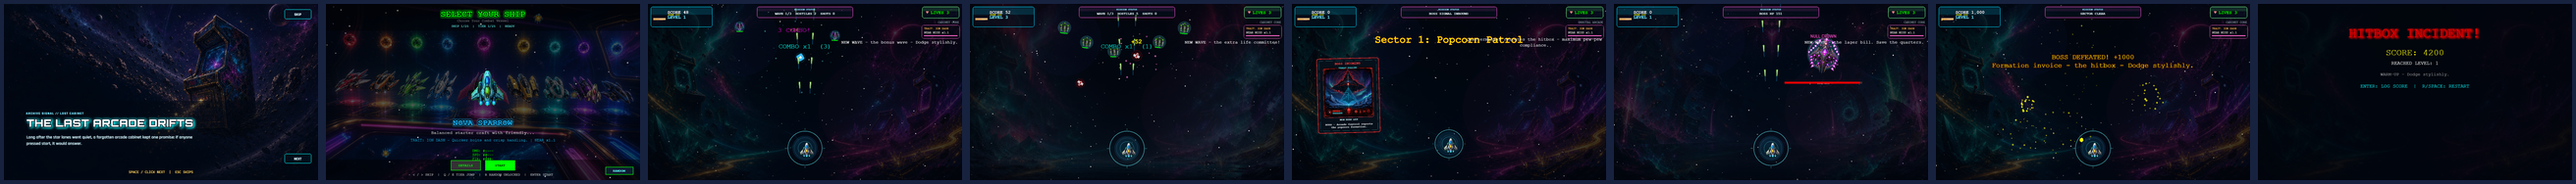
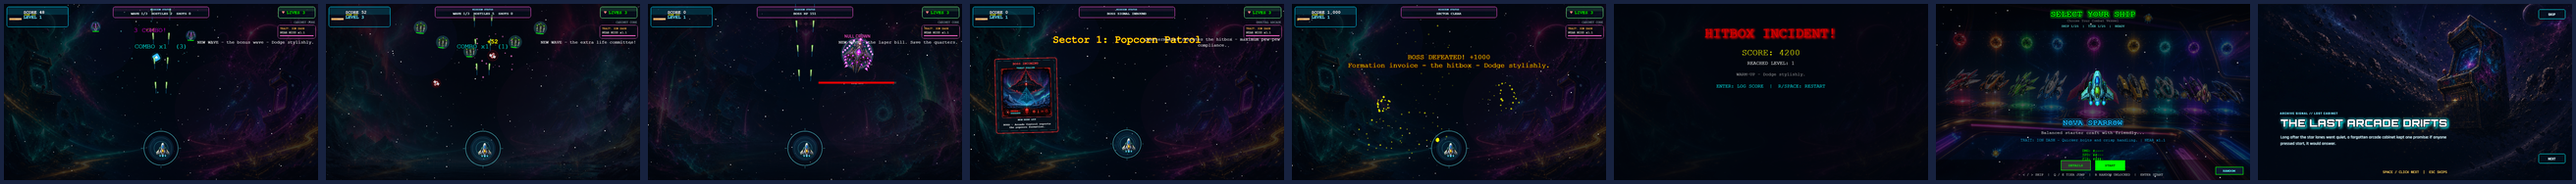
lead steam screenshots with gameplay

diff --git a/progress.md b/progress.md
@@ -443,3 +443,4 @@ Original goal: Continue autonomous development of Nova Swarm toward a polished S
 - Completed the first anti-flop Ralph polish loop for Steam arcade-shooter positioning. The highest-impact issue was arcade-flow friction: the menu's primary action still opened ship select, and game over lacked an obvious one-input restart. The main menu now makes `PLAY NOW` the primary action, moves ship browsing to `SHIP HANGAR`, keeps story intro optional through the Navigator card, and game over supports `R`/`Space` instant restart with the shortcut visible in the central prompt. Added `docs/steam/anti-flop-store-plan.md` and `docs/reviews/anti-flop-audit.md`. Verification passed with syntax checks, `npm run build` (`v2026-05-18_16-03-56`), `npm run smoke` at `test-results/smoke-2026-05-18T14-04-37-510Z/`, and focused timing evidence at `test-results/anti-flop-quickstart-20260518-final/`: `PLAY NOW` to gameplay in 123 ms and `R` restart to gameplay in 68 ms, both with zero console events.
 - Published the anti-flop quick-play build to Cloudflare Pages at `https://b01166ed.burt-game.pages.dev`; both that deployment and `https://burt.tinyfoundry.app/version.json` report `v2026-05-18_16-03-56`. Live private-domain smoke passed at `test-results/smoke-live-anti-flop-2026-05-18T16-03/`, and `npm run check:live-deployment` passed with updated evidence in `release/steamworks/live_deployment_report.json`.
 - Completed the second anti-flop Ralph loop around trailer opening strength and stale release evidence. The first gameplay-first trailer candidate still felt weak because the opening seconds showed too much pre-wave setup, so the trailer audio/render pipeline now trims the quiet setup and the current candidate opens on visible enemies, player fire, score/HUD, and active swarm pressure. Refreshed current Steam screenshot evidence and the 8-shot upload shortlist from build `v2026-05-18_16-03-56`; refreshed current trailer visual/audio/candidate evidence; regenerated full RC, payload manifest, human-review, Steam-client preflight, and release handoff packets. Full `npm run verify:steam-rc -- --full` passed at `test-results/steam-rc-verify-2026-05-18T14-39-30-815Z/report.json`; its 10-minute release playtest survived 599,901 ms, reached level 7, ended alive with score 69,471, and reported zero console/page/network failures. Final `npm run audit:release-readiness` passes every automated gate and correctly leaves only the real manual blockers: Steamworks IDs, Steam-client validation evidence, and human release approvals.
+- Completed the third anti-flop Ralph loop on Steam screenshot first impressions. The upload shortlist no longer opens with story intro or ship select; it now leads with first-wave gameplay, midgame swarm pressure, boss fight, boss inbound, boss victory, game-over/high-score flow, then ship select and optional story art as supporting context. Regenerated `release/steam-screenshots/steam-upload-candidates-2026-05-17/steam_upload_candidate_sheet.png`, updated its README, visually inspected the sheet, and reran `npm run audit:release-readiness`, which still passes all automated gates and leaves only the three real manual Steam blockers.

diff --git a/docs/reviews/anti-flop-audit.md b/docs/reviews/anti-flop-audit.md
@@ -96,3 +96,39 @@ After: the first contact-sheet frame already shows active swarm pressure, player
 - Steam screenshot shortlist is technically current and readable, but still needs human taste approval for the actual store page.
 - The trailer is now anti-flop compliant on opening action, but a final human trailer edit could still improve punch and brand polish.
 - Continued gameplay polish should focus on boss telegraph readability and first-run "one more run" feel rather than more content-count expansion.
+
+## Loop 3 - Store Screenshot First Impression
+
+### What Was Tested
+
+- Reviewed the Steam screenshot upload candidate contact sheet as a store-page first impression.
+- Visually inspected `release/steam-screenshots/steam-upload-candidates-2026-05-17/steam_upload_candidate_sheet.png`.
+- Ran `npm run audit:release-readiness`.
+
+### What Felt Slow, Confusing, Or Generic
+
+- The screenshot shortlist still led with story intro and ship select. Those are useful supporting shots, but they make the store page feel lore/menu-first instead of action-first.
+
+### What Changed
+
+- Reordered the 8-shot Steam upload shortlist to lead with actual gameplay, midgame swarm pressure, boss fight, boss warning, boss victory, and score-flow evidence.
+- Moved ship select and story intro to the last two supporting slots.
+- Regenerated the upload contact sheet and updated the README candidate order.
+
+### Before And After Feel
+
+Before: the first two screenshot impressions were cinematic/menu context.
+
+After: the first screenshot impression is readable shooting, enemies, score, HUD, and arcade motion.
+
+### Evidence Captured
+
+- Updated screenshot sheet: `release/steam-screenshots/steam-upload-candidates-2026-05-17/steam_upload_candidate_sheet.png`.
+- Candidate README: `release/steam-screenshots/steam-upload-candidates-2026-05-17/README.md`.
+- Release audit: `docs/reviews/release-readiness-audit-2026-05-17.json`, automated gates pass with only the three known manual blockers.
+
+### Remaining Top Risks
+
+- Final human screenshot approval is still needed.
+- Steam page capsule/trailer/screenshot ordering should be reviewed together before upload.
+- The first gameplay screenshot is readable, but a future capture could be even more explosive if it catches a pickup/explosion within the same frame.

diff --git a/release/steam-screenshots/steam-upload-candidates-2026-05-17/README.md b/release/steam-screenshots/steam-upload-candidates-2026-05-17/README.md
@@ -6,14 +6,14 @@ Source deployment:
 - `https://burt.tinyfoundry.app`
 
 Candidate set:
-- `01-story-intro-cinematic.png` - first-run cinematic art and public arcade premise.
-- `02-ship-select-variety.png` - ship selection, hangar backdrop, and variant breadth.
-- `03-first-wave-gameplay.png` - readable active wave combat from the release build.
-- `04-midgame-swarm-escalation.png` - denser level-three swarm action and combo feedback.
-- `05-boss-inbound.png` - boss warning/arcade-comedy setup.
-- `06-boss-fight.png` - active boss pattern and HUD readability.
-- `07-boss-victory.png` - boss defeat payoff and score reward.
-- `08-game-over-score-flow.png` - restart/high-score flow.
+- `01-first-wave-gameplay.png` - readable active wave combat from the release build.
+- `02-midgame-swarm-escalation.png` - denser level-three swarm action and combo feedback.
+- `03-boss-fight.png` - active boss pattern and HUD readability.
+- `04-boss-inbound.png` - boss warning/arcade-comedy setup.
+- `05-boss-victory.png` - boss defeat payoff and score reward.
+- `06-game-over-score-flow.png` - restart/high-score flow.
+- `07-ship-select-variety.png` - ship selection, hangar backdrop, and variant breadth.
+- `08-story-intro-cinematic.png` - optional story intro art and public arcade premise.
 
 Excluded from this upload shortlist:
 - `02-main-menu.png` - useful identity proof, but less valuable as a Steam screenshot than actual play.
